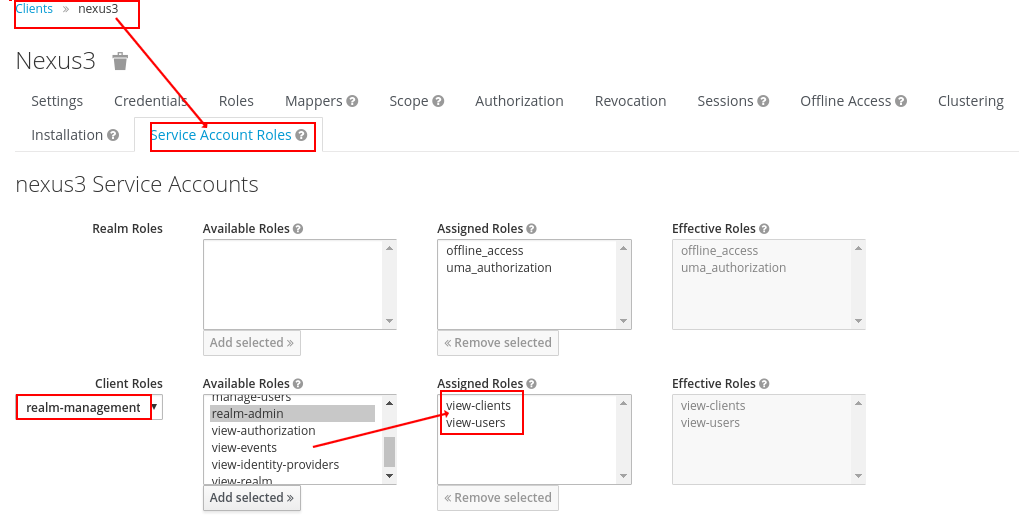
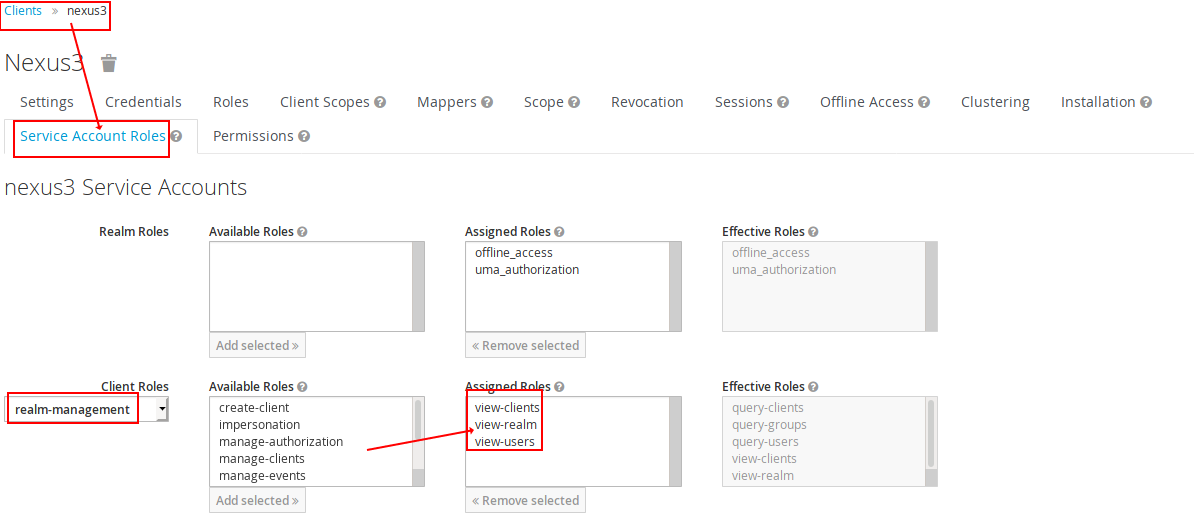
Update README.md

Changed region(s): [[0.0, 0.4308, 0.791, 1.0], [0.0, 0.0, 1.0, 0.3077], [0.0, 0.3385, 0.2738, 0.4]]

diff --git a/README.md b/README.md
@@ -6,6 +6,11 @@ authenticate with Keycloak Realm Users and authorize with Keycloak realm/client 
 
 It works with Nexus 3.x and Keycloak 3.x, Keycloak 4.x.
 
+## Features
+
+- Supports to map the **Realm-Roles**, **Client-Roles** and **Realm-Groups** of Keycloak.
+- Supports to map multiple Keycloak realms.
+
 ## Warning
 
 If you are using the version 0.2.x of this plugin, and want to upgrade the plugin to 0.3.x,
@@ -72,7 +77,7 @@ done
 
 Append the following line to *startup.properties* file found in `$install_dir/etc/karaf`.
 
-Please replace [PLUGIN_VERSION] by the current plugin version.
+Please replace `[PLUGIN_VERSION]` by the current plugin version.
 ```
 mvn\:org.github.flytreeleft/nexus3-keycloak-plugin/[PLUGIN_VERSION] = 200
 ```
@@ -94,7 +99,7 @@ click `Save` button to make configuration effective.
 ![](./docs/images/enable-service-accounts.png)
 
 Then Activate the `Service Account Roles` tab, choose `realm-management` for `Client Roles`,
-then select `view-clients` and `view-users` in `Available Roles`,
+then select `view-realm`, `view-clients` and `view-users` in `Available Roles`,
 click `Add selected` button to add them to `Assigned Roles`.
 
 ![](./docs/images/choose-service-account-roles.png)
@@ -172,6 +177,19 @@ Within the console just type
 ```
 bundle:install -s file://[ABSOLUTE_PATH_TO_YOUR_JAR]
 ```
+
+## Multiple Keycloak Realms
+
+From the version 0.3.3, the plugin supports multiple Keycloak realms. You can map at least 4 different Keycloak realms' roles/groups to Nexus3.
+
+If you want to enable this feature, just export the `Keycloak OIDC JSON` from the Keycloak realm to the file `$install_dir/etc/keycloak.{index}.json`,
+and the `{index}` is a number which can be `0`, `1` or `2`.
+
+Then, enable the corresponding Keycloak authentication realm in Nexus3:
+
+![](./docs/images/enable-multi-keycloak-auth-realm.png)
+
+Finally, you just need to map the new realm roles/groups to Nexus3 as the default one.
 
 ## Docker
 
